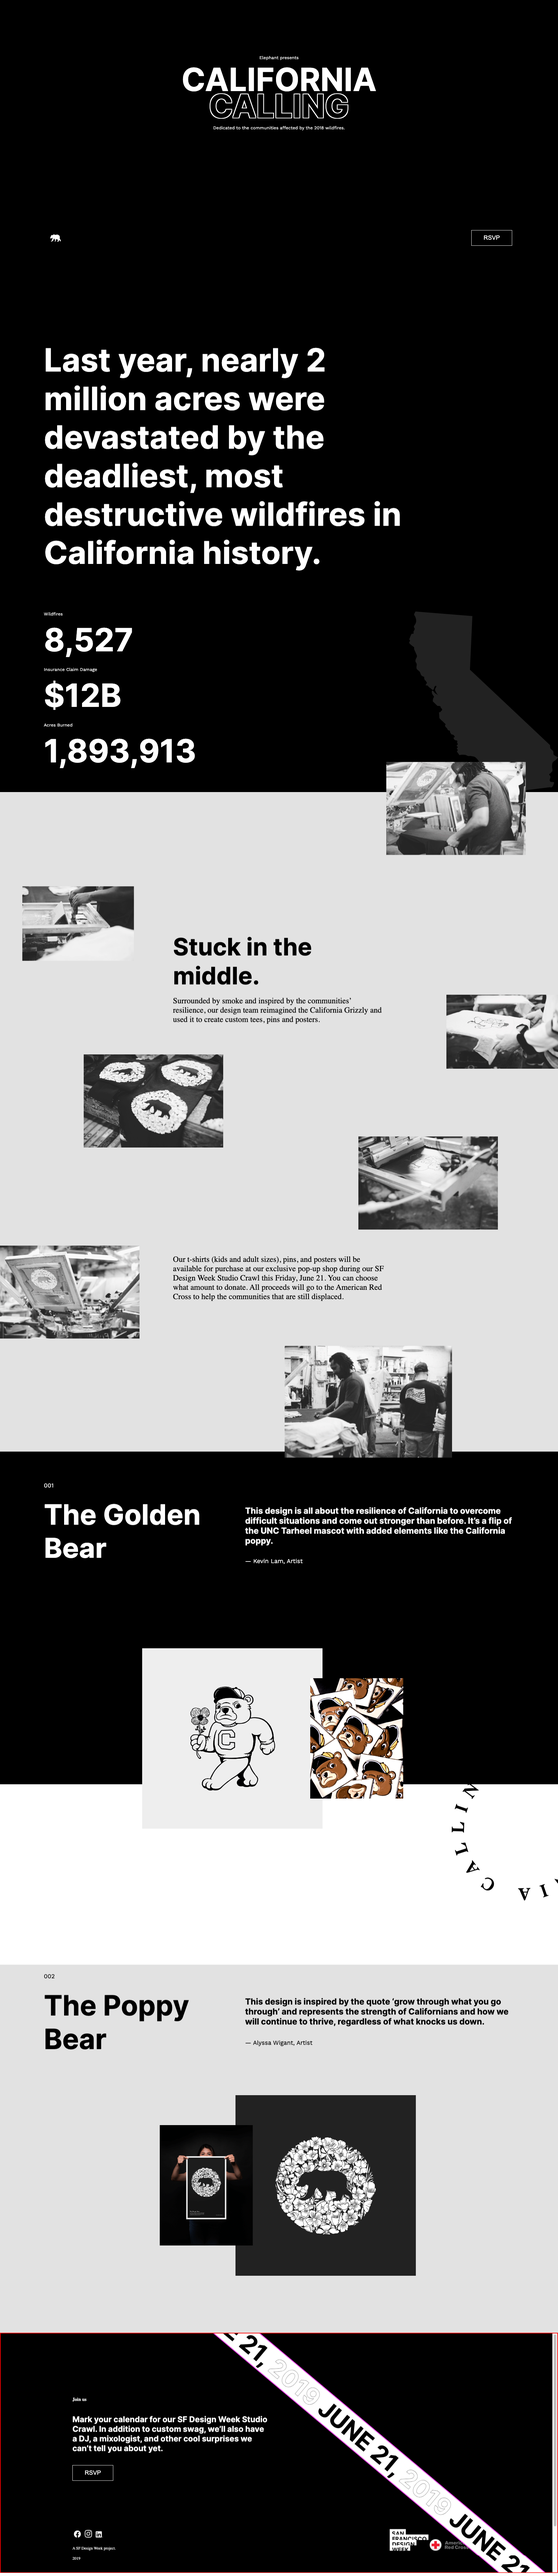
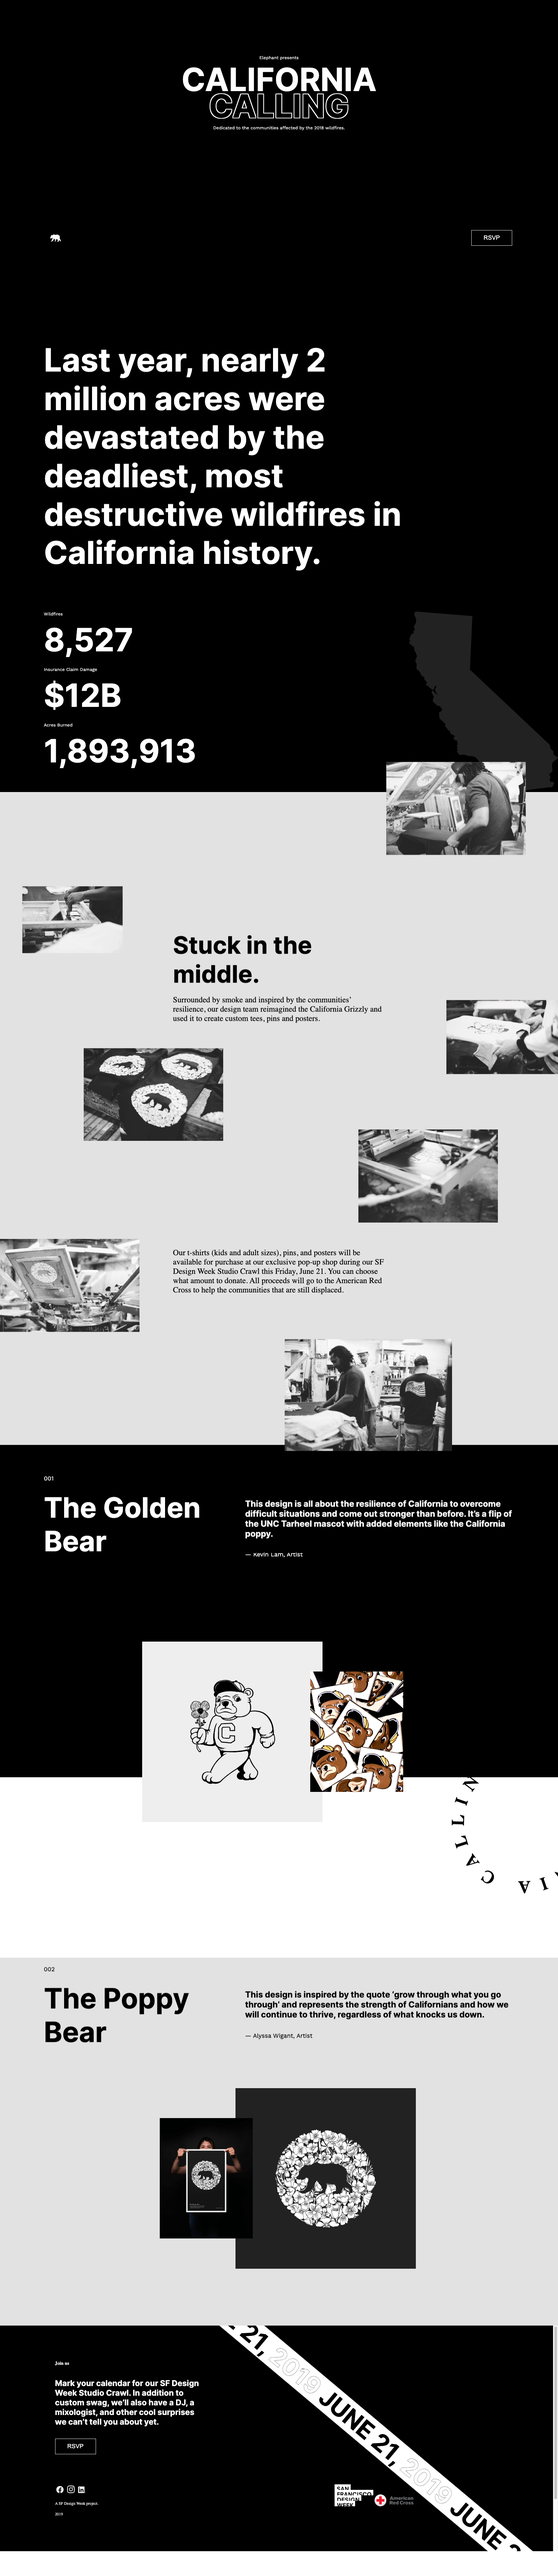
errors fixed, readme updated

diff --git a/assets/css/style.css b/assets/css/style.css
@@ -95,7 +95,7 @@ header img {
   margin-left: 11rem;
 }
 
-/* Section2 */
+/* Section2 Last year*/
 .facts {
   height: 60vh;
   background-color: black;
@@ -118,7 +118,7 @@ header img {
   margin-left: 11rem;
 }
 
-/* Section 3 */
+/* Section3 Image gallery */
 main > .imageSection {
   display: grid;
   grid-template-columns: 1fr 1fr 1fr;
@@ -134,7 +134,7 @@ main > .imageSection .imgSectionImg1 {
   transform: translateY(-10vh);
 }
 main > .imageSection .imgSectionImg2 {
-  width: 20vw;
+  width: 18vw;
   grid-column: 1/2;
   grid-row: 2/3;
   transform: translateX(4vw);
@@ -142,19 +142,19 @@ main > .imageSection .imgSectionImg2 {
 main > .imageSection .imgSectionText1 {
   grid-column: 2/3;
   grid-row: 3/4;
-  transform: translateY(-10vh);
+  transform: translateY(-8vh);
   width: 38vw;
 }
 main > .imageSection .imgSectionText1 h2 {
   font-family: "Inter";
   font-size: 6rem;
-  margin-bottom: 2vh;
+  margin-bottom: 2.2vh;
 }
 main > .imageSection .imgSectionImg3 {
   width: 20vw;
   grid-column: 3/4;
   grid-row: 4/5;
-  transform: translateY(-20vh);
+  transform: translateY(-16vh);
   margin: 0 0 0 auto;
 }
 main > .imageSection .imgSectionImg4 {
@@ -187,7 +187,7 @@ main > .imageSection .imgSectionImg7 {
   font-size: 2rem;
 }
 
-/* Section 4 */
+/* Section 4 Golden Bear*/
 .goldenBear {
   background-color: black;
   color: white;
@@ -253,9 +253,10 @@ main > .imageSection .imgSectionImg7 {
   top: 420px;
   right: 50px;
 }
-/* Section 5 */
+/* Section 5 Animation Circle */
 
 .animationCircle {
+  overflow-x: hidden;
   display: flex;
   justify-content: flex-end;
   background-color: white;
@@ -377,32 +378,30 @@ footer button {
   margin: 1rem 0;
 }
 
-.ngo {
+/* .ngo {
   display: flex;
   justify-content: flex-end;
   height: 4vh;
   position: relative;
   top: -180px;
   right: 13rem;
-}
+} */
 
 footer {
   overflow-x: hidden;
   background: #000;
   color: #fff;
-  height: 80vh;
-  border: #ff0000 solid 3px;
 }
 footer .footerBanner {
   overflow-x: hidden;
   background: #fff;
   color: #000;
   width: 90vw;
-  transform: rotate(40deg) translateY(450%);
+  transform: rotate(40deg) translateY(460%);
   position: relative;
   left: 700px;
   margin-top: 1vh;
-  border: #f21cee solid 3px;
+  /* border: #f21cee solid 3px; */
 }
 footer .footerBanner .footerBannerAnimation {
   font-family: "Inter";
@@ -424,11 +423,12 @@ footer .footerBanner .footerBannerAnimation span {
   }
 }
 footer .footerTextBlock {
-  padding: 10vh 5vw;
+  padding: 1vh 2vw;
   margin-bottom: 1vh;
-  width: 45vw;
+  width: 30vw;
+  /* border: #00ff1a solid 3px; */
 }
-footer .footerTextBlock .smallFont {
+footer .footerTextBlock .smallText {
   font-family: "Inter";
   font-size: 2rem;
   margin-bottom: 2vh;
@@ -438,7 +438,8 @@ footer nav {
   display: flex;
   flex-wrap: wrap;
   justify-content: space-between;
-  padding: 5vh 15vw 1vh 5vw;
+  padding: 8vh 25vw 1vh 2vw;
+  /* border: #d4ff00 solid 3px; */
 }
 footer nav .socialMediaLogo div img {
   width: 40px;
@@ -447,6 +448,6 @@ footer nav .socialMediaLogo div img {
 footer nav .socialMediaLogo p {
   margin: 2vh 0;
 }
-footer nav .ngoLogo img {
+footer nav .ngo img {
   width: 7vw;
 }

diff --git a/index.html b/index.html
@@ -117,7 +117,7 @@
         <!-- Footer Text Block -->
         <article class="footerTextBlock">
             <h3>Join us</h3>
-            <p class="smallFont">Mark your calendar for our SF Design Week Studio Crawl. In addition to custom
+            <p class="smallText">Mark your calendar for our SF Design Week Studio Crawl. In addition to custom
                 swag, we’ll also have a DJ,
                 a mixologist, and other cool surprises we can’t tell you about yet.</p>
             <button class="RSVPButton">RSVP</button>
@@ -133,7 +133,7 @@
                 <p>A SF Design Week project.</p>
                 <p>2019</p>
             </article>
-            <article class="ngoLogo">
+            <article class="ngo">
                 <img src="./assets/img/sfdw-logo.png" alt="sfdw logo">
                 <img src="./assets/img/ngo-logo.png" alt="ngo logo">
             </article>
